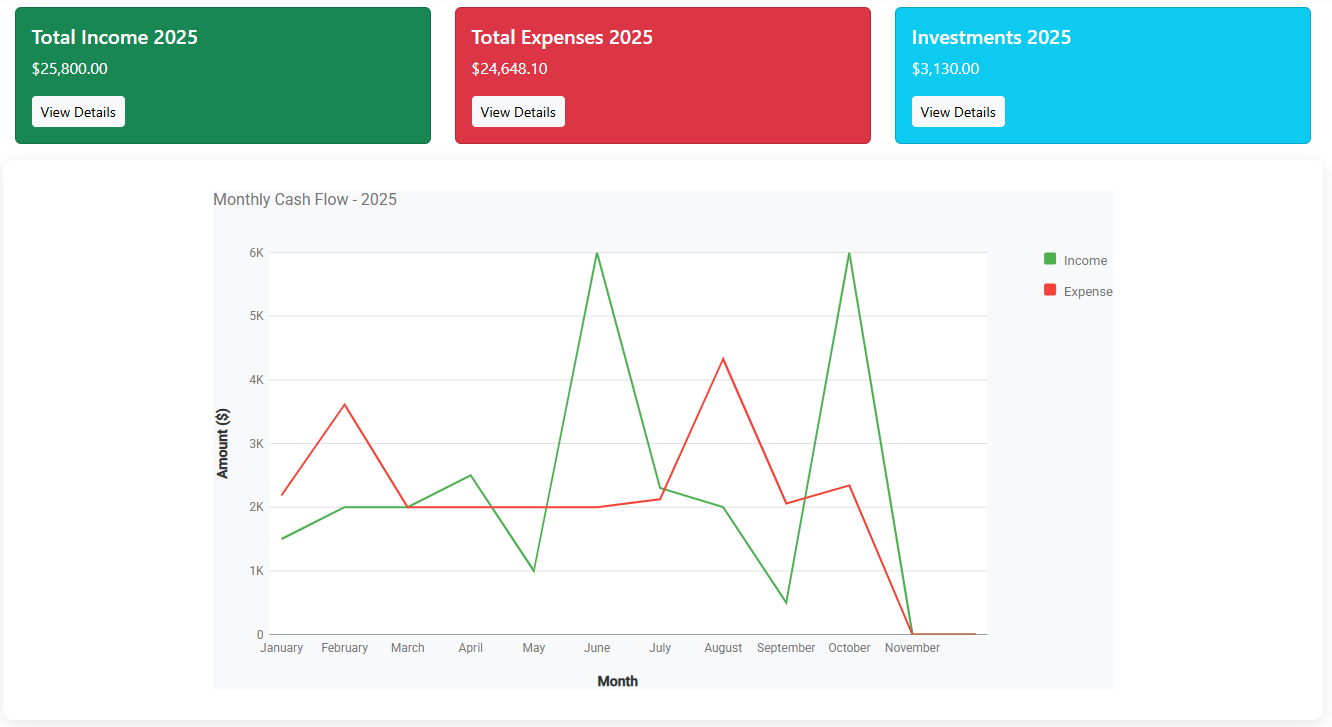
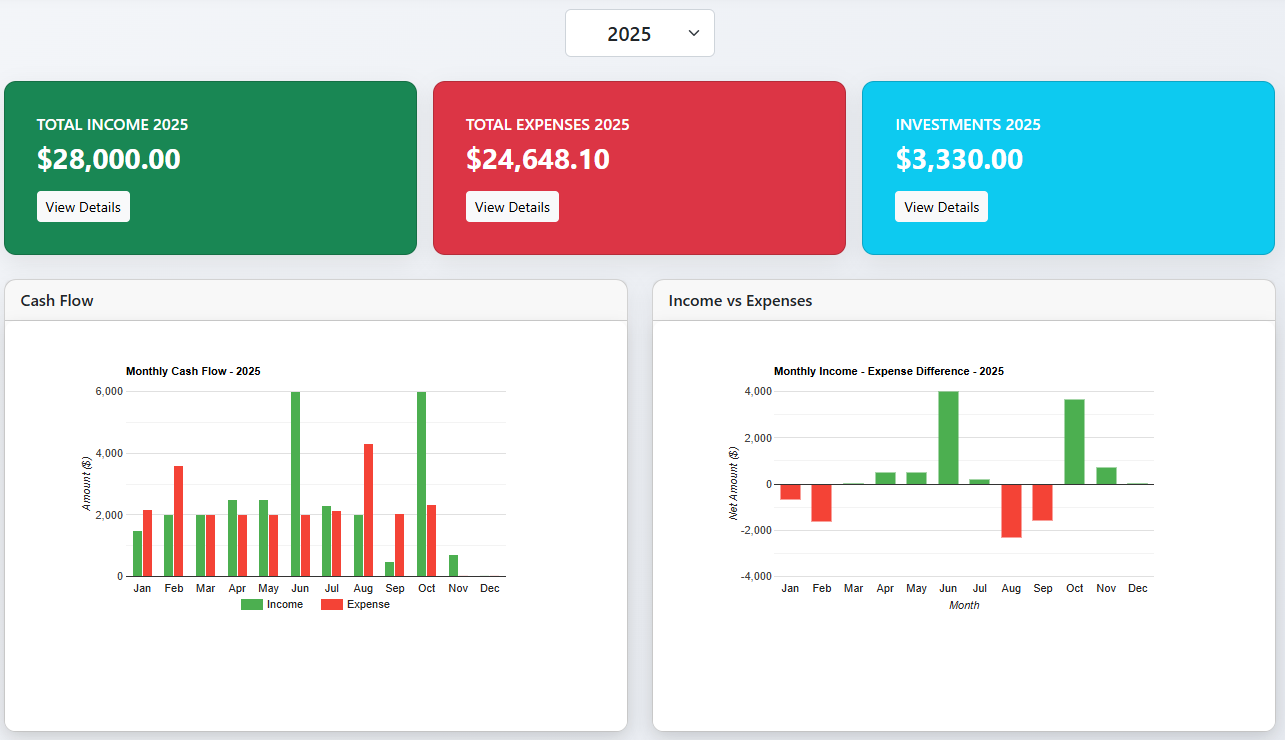
Some ui updates

diff --git a/index.html b/index.html
@@ -33,48 +33,51 @@
 
     <!-- ABOUT ME -->
     <h2 id="aboutMe" class="band center headerText">About Me</h2>
-    <div id="aboutMeDiv" class="container info">
-        <div>
-            <img id="photo" src="./images/photo.png" alt="Photograph of Tomonobu">
+    <div class="aboutMeDiv row justify-content-center">
+        <div class="col-md-10 col-lg-7">
+            <div class="card shadow-sm border-0">
+                <div class="card-body p-4">
+                    <div>
+                        <img id="photo" src="./images/photo.png" alt="Photograph of Tomonobu">
+                    </div>
+                    <div id="text">
+                        <p>Hi, I'm Tomonobu. <br> Software Developer. <br></p>
+
+                        <p>
+                            I began my journey in Mechatronics Engineering, where my curiosity for how things work
+                            naturally evolved into a passion for how software brings those things to life. During my
+                            studies, courses in Software for Engineering and Microcontrollers introduced me to
+                            programming in C and assembly—an experience that sparked a lasting interest in building
+                            and problem-solving through code.
+                        </p>
+
+                        <p>
+                            After graduating, I chose to dive deeper into software development, continuing to learn
+                            independently before moving to Canada to formalize my skills with a Diploma in Computer
+                            Programming in 2022.
+                        </p>
+
+                        <p>
+                            Today, I work as a Software Developer with nearly three years of experience, focusing on
+                            .NET web development. I enjoy building reliable, scalable applications using technologies
+                            like <strong>ASP.NET Core MVC</strong>, <strong>Web APIs</strong>, <strong>Razor Pages</strong>,
+                            and <strong>SQL databases</strong>.
+                        </p>
+
+                        <p>
+                            I also have hands-on experience with automated testing for both web and mobile applications,
+                            ensuring the software I build is not only functional, but robust and maintainable.
+                        </p>
+                    </div>
+                </div>
+            </div>
         </div>
-        <div id="text">
-            <p>Hi, I'm Tomonobu. <br> Software Developer. <br></p>
-
-            <p>
-                I began my journey in Mechatronics Engineering, where my curiosity for how things work
-                naturally evolved into a passion for how software brings those things to life. During my
-                studies, courses in Software for Engineering and Microcontrollers introduced me to
-                programming in C and assembly—an experience that sparked a lasting interest in building
-                and problem-solving through code.
-            </p>
-
-            <p>
-                After graduating, I chose to dive deeper into software development, continuing to learn
-                independently before moving to Canada to formalize my skills with a Diploma in Computer
-                Programming in 2022.
-            </p>
-
-            <p>
-                Today, I work as a Software Developer with nearly three years of experience, focusing on
-                .NET web development. I enjoy building reliable, scalable applications using technologies
-                like <strong>ASP.NET Core MVC</strong>, <strong>Web APIs</strong>, <strong>Razor Pages</strong>,
-                and <strong>SQL databases</strong>.
-            </p>
-
-            <p>
-                I also have hands-on experience with automated testing for both web and mobile applications,
-                ensuring the software I build is not only functional, but robust and maintainable.
-            </p>
-        </div>
-        <!--<button id="letsTalk" class="button">Let's Talk</button>-->
-        <!--<button class="button seeProjects">Portfolio</button>-->
     </div>
-
     <!-- PROJECTS -->
     <h2 id="projects" class="band center headerText">Portfolio</h2>
 
-    <div class="card-group centerProjects py-2">
-        <div class="card col-sm-12 col-md-4 col-lg-3 col-xl-2 mx-2 my-2" style="min-width: 78vw;">
+    <div class="row">
+        <div class="card col-12">
             <div class="card-body center">
                 <i class="fab fa-database" style="font-size: 24px;"></i>
                 <i class="fab fa-html5" style="font-size: 24px;"></i>
@@ -88,8 +91,9 @@
                 <i class="fab fa-github" style="font-size: 24px;"></i>
             </div>
         </div>
+    </div>
 
-
+    <div class="card-group centerProjects py-2">
         <div class="card col-sm-12 col-md-4 col-lg-3 col-xl-2 mx-2 my-2" style="min-width: 12rem;">
             <a href="https://budgettracker-prod-cmgbfwf6czgkb4a2.canadacentral-01.azurewebsites.net" target="_blank"><img src="./images/budgetTracker.png" class="card-img-top app" alt="BudgetTracker Image"></a>
             <div class="card-body">
@@ -122,8 +126,8 @@
                     <a id="openLoginBtn" class="button">API Call</a>
                     <div id="loginBox" class="box hidden">
                         <h3>Authenticate</h3>
-                        <input type="text" id="username" value="[email redacted]" placeholder="Username"/>
-                        <input type="password" id="password" value="Budget123!" placeholder="Password"/>
+                        <input type="text" id="username" value="[email redacted]" placeholder="Username" />
+                        <input type="password" id="password" value="Budget123!" placeholder="Password" />
                         <button id="loginBtn">Login & Call API (Report)</button>
                         <pre id="result"></pre>
                     </div>

diff --git a/css/style.css b/css/style.css
@@ -11,9 +11,9 @@ h2 {
 	font-family: 'Poppins', sans-serif;
 }
 
-body{
+/*body{
 	padding: 0 10%;
-}
+}*/
 
 .button
 {
@@ -28,8 +28,8 @@ body{
 	-webkit-user-select: none;
 	-moz-user-select: none;
 	user-select: none;
-	background-color: #6885b1;
-    border-color: #6885b1;
+	background-color: #1f2937; /* dark slate */
+    border-color: #1f2937; /* dark slate */
 	border: 1px solid transparent;
 	padding: 0.375rem 0.75rem;
 	font-size: 1rem;
@@ -50,7 +50,7 @@ body{
 
 .bckTop {
 	display: fixed;
-	background-color:#6885b1;
+	background-color: #1f2937; /* dark slate */
 }
 
 /* Center */
@@ -97,7 +97,7 @@ body{
 	top: 0px;
 	width: 0;
 	height: 100%;
-	background-color: #6885b1;
+	background-color: #1f2937; /* dark slate */
 	animation: text_reveal_box 1s ease;
 }
 
@@ -129,12 +129,12 @@ body{
 }
 
 /* About Me */
-.info {
-    background: rgba(0,0,0,0.1);
-    padding: 25px;
-    text-align: center;
-    /* margin: 0 auto; */
-    color:black;
+.aboutMeDiv {
+	background: rgba(0,0,0,0.1);
+	padding: 25px;
+	text-align: center;
+	/* margin: 0 auto; */
+	color: black;
 }
 
 #photo {
@@ -153,9 +153,10 @@ body{
 }
 
 /*Projects*/
-.centerProjects{
+.centerProjects {
 	justify-content: center;
-	background-color: rgb(238, 236, 236) ;
+	background-color: rgb(238, 236, 236);
+	padding: 0 10%;
 }
 
 .app{
@@ -171,11 +172,15 @@ body{
 }
 
 /* FORM */
-.headerText{
-    min-height: 8vh;
-    padding: 15px 0;
-    text-align: center;
-    background: url(../images/background1.jpg); 
+.headerText {
+	min-height: 8vh;
+	padding: 15px 0;
+	text-align: center;
+	/*background: url(../images/background1.jpg); */
+	background: linear-gradient(rgba(31,41,55,0.45), rgba(31,41,55,0.35)), url("clouds.jpg");
+	background-size: cover;
+	background-position: center;
+	color: white
 }
 
 .formContent {